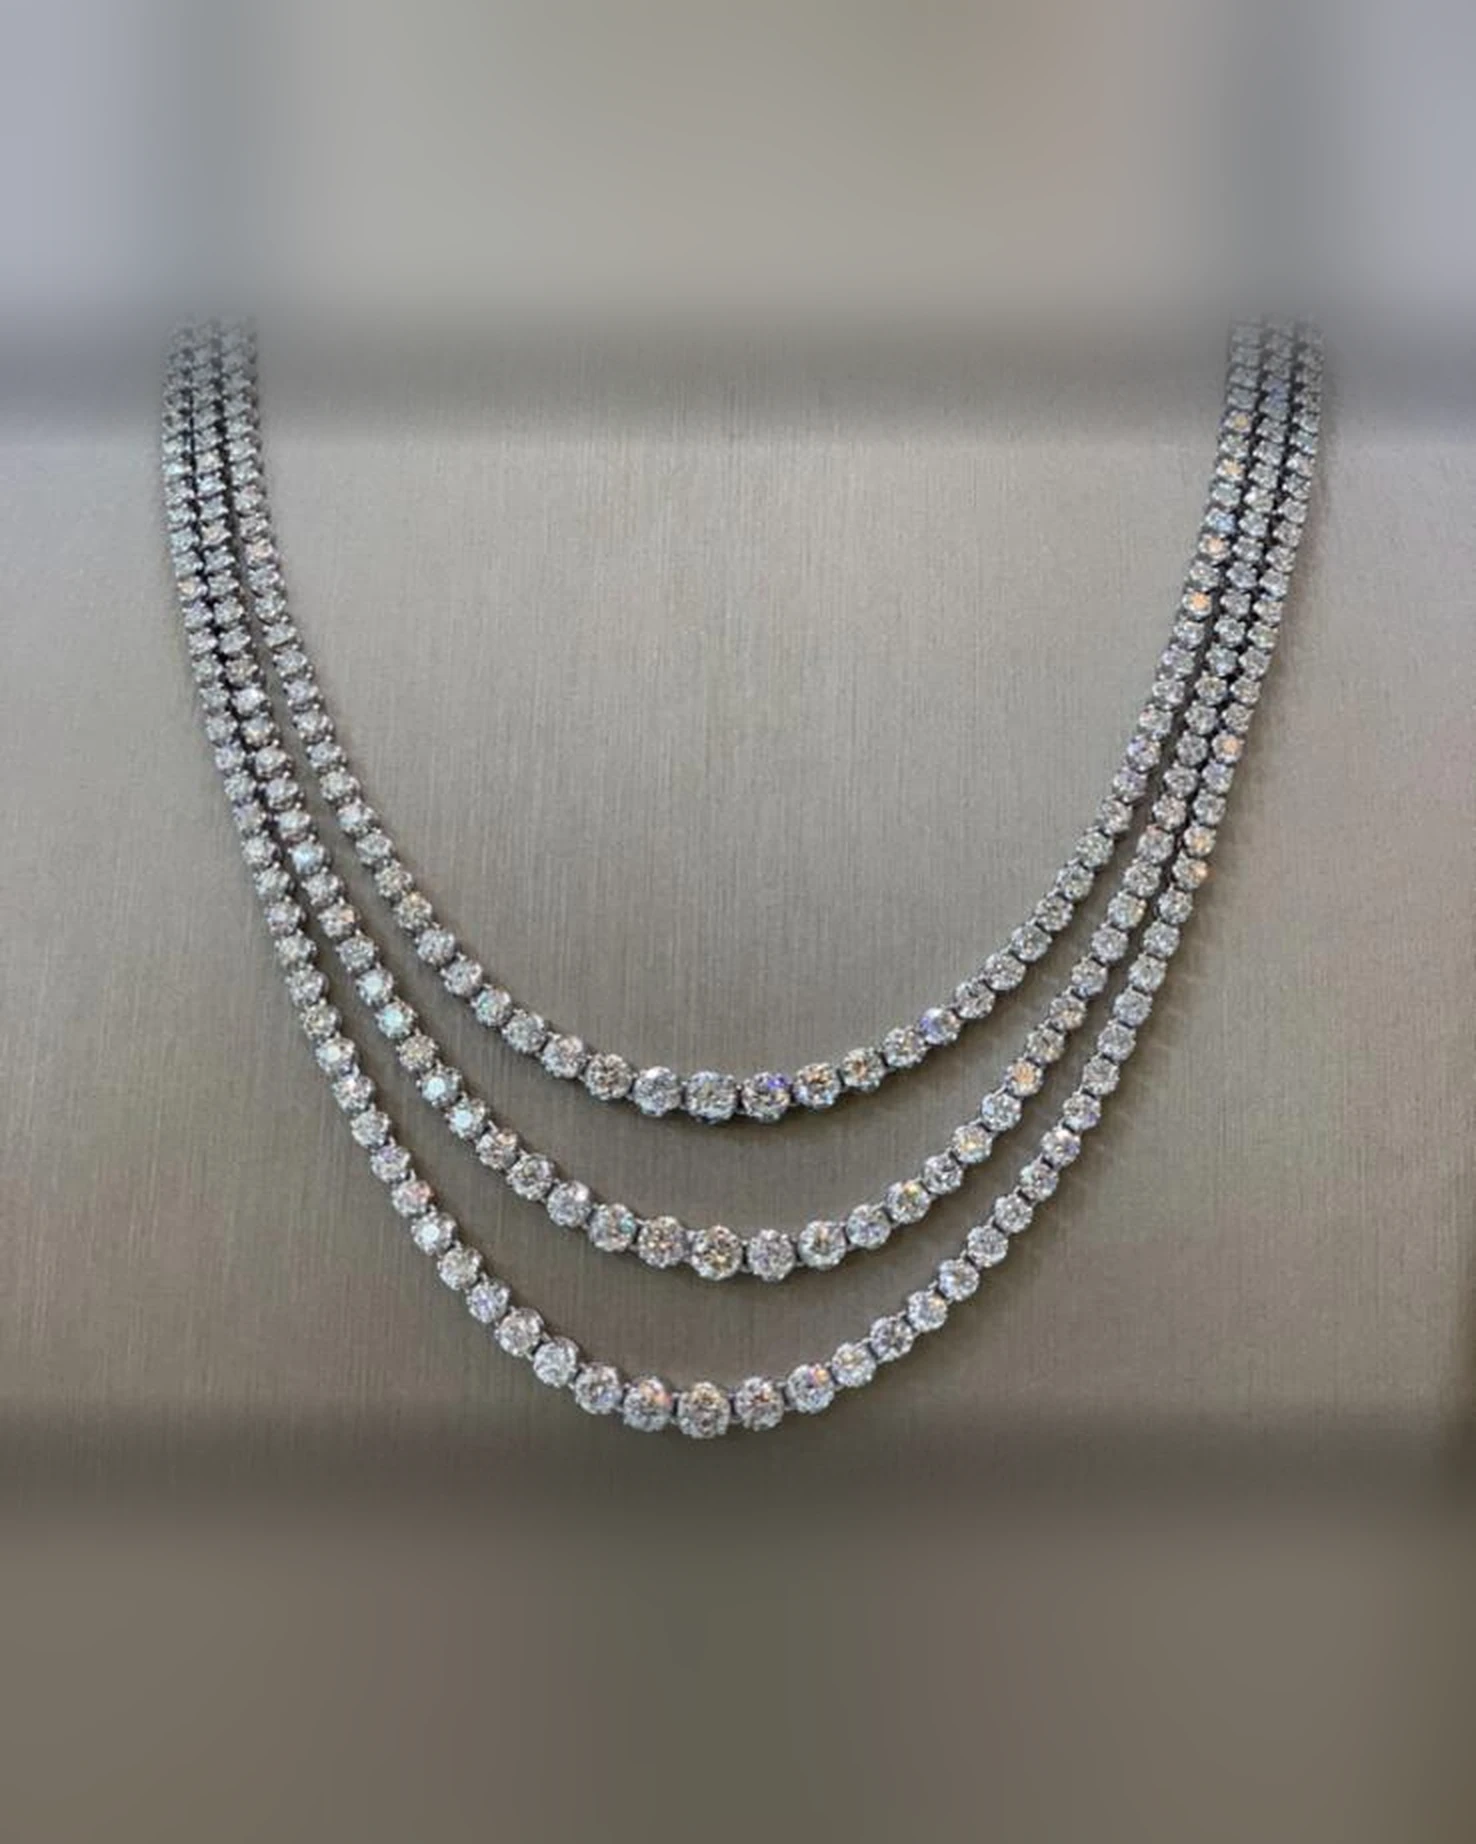
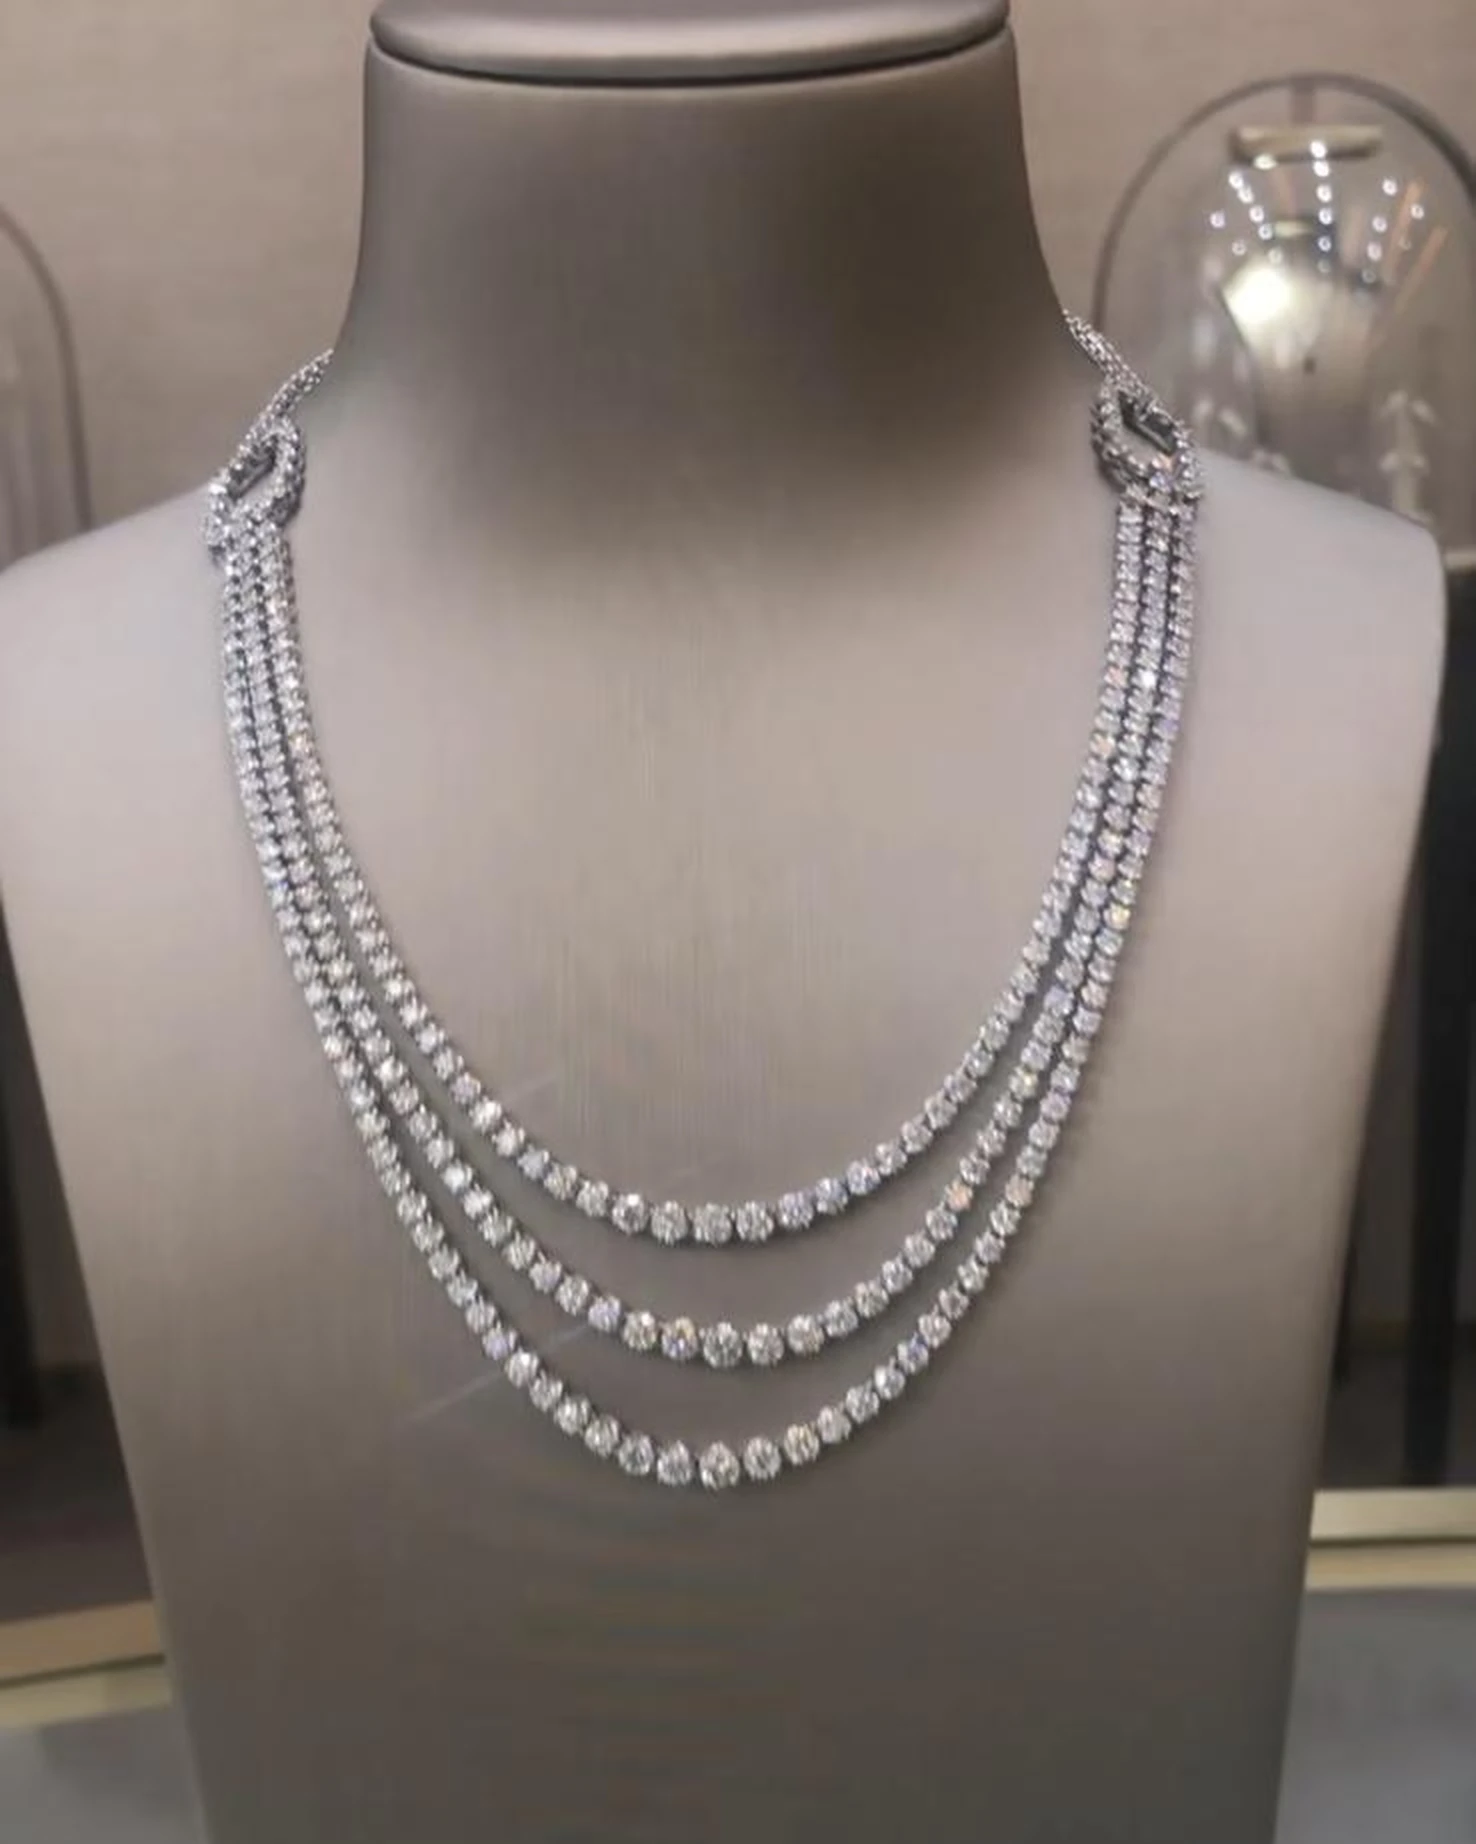
Show the triple diamonds tennis necklace on a bust
Per Gaby's photo: same three-row necklace; the bust shot replaces the
wide flat photo and shows the whole piece in the portrait frame.

Claude-Session: https://claude.ai/code/session_01YErHAkG1NViqXgVA9nc83o

diff --git a/collections.html b/collections.html
@@ -234,7 +234,7 @@
       </figure>
       <figure class="piece reveal" data-cat="necklaces diamonds" data-label="Diamond Necklaces & Bracelets">
         <div class="piece__img"><img src="assets/img/triple-diamond-tennis-necklace.webp" alt="Triple Diamonds Tennis Necklace by Germani" loading="lazy" decoding="async"></div>
-        <figcaption><span class="piece__name">Triple Diamonds Tennis Necklace</span><span class="piece__desc">Three graduated rows of round brilliant diamonds</span></figcaption>
+        <figcaption><span class="piece__name">Triple Diamonds Tennis Necklace</span><span class="piece__desc">Three graduated rows of round brilliant diamonds, joined at diamond-set clasps</span></figcaption>
       </figure>
       <figure class="piece reveal" data-cat="necklaces diamonds" data-label="Diamond Necklaces & Bracelets">
         <div class="piece__img"><img src="assets/img/diamond-collar.webp" alt="Diamond Collar by Germani" loading="lazy" decoding="async"></div>
